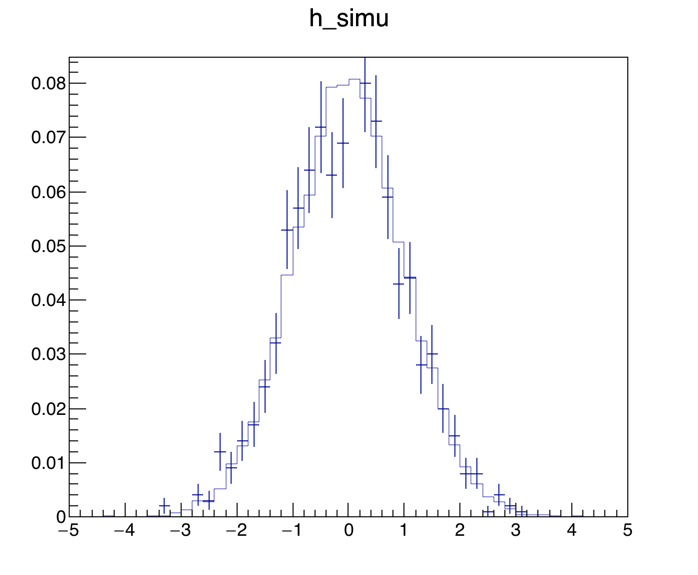
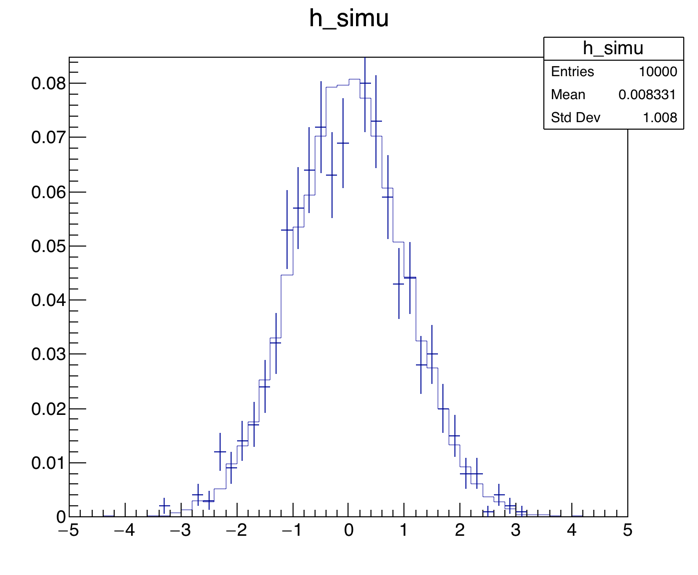
Updated

Changed region(s): [[0.7521, 0.0591, 0.9928, 0.2365]]

diff --git a/docs/index.md b/docs/index.md
@@ -1,8 +1,29 @@
 # CERN ROOT の使い方
+C++かPythonのどちらかを使うことで、CERNが提供するお絵かきライブラリROOTを使用することができます。
+高エネ実験でよく使用される実験データ・フォーマットはROOT形式だと思いますので、ROOTでの描画テクニックは至る所で必要になってくると思います。
+ここでは必要最低限の描画テクニックをまとめて、たかがお絵かきに時間を掛けない研究ライフを送ることを目的とします。
+
 ## 見栄えを整える
+見栄えを整える前（左）と、整えた後（右）。
+ガウシアンで背景事象と実験値に見立てたデータを擬似的に生成、論文でよく見るような決めプロットみたいにするためのテクニックをまとめます。
 
 <img width="30%" src="fig/ana_before.png" style="float: left;"/>
 <img width="30%" src="fig/ana_after.png"/>
+
+### 統計Boxを消す
+
+```
+R.gStyle.SetOptStat(0)
+```
+
+### マージン（余白）を調整する
+
+```
+R.gPad.SetTopMargin(0.1);
+R.gPad.SetBottomMargin(0.15);
+R.gPad.SetRightMargin(0.05);
+R.gPad.SetLeftMargin(0.18);
+```
 
 ## 統計処理を加える
 
